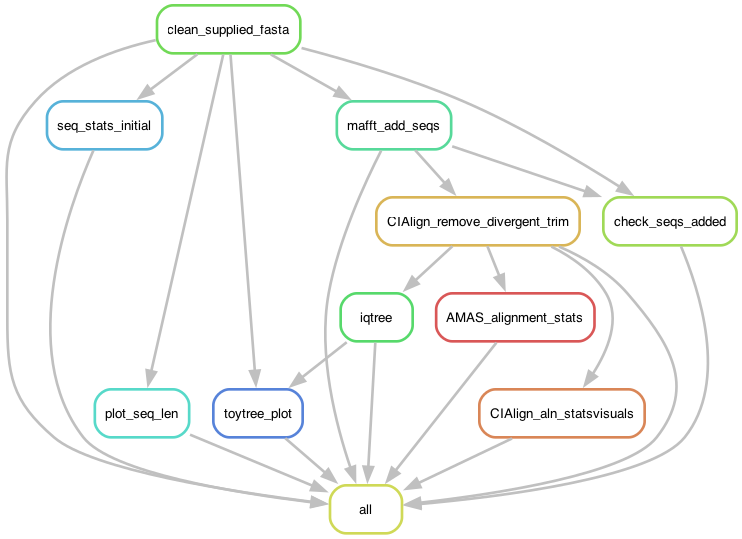
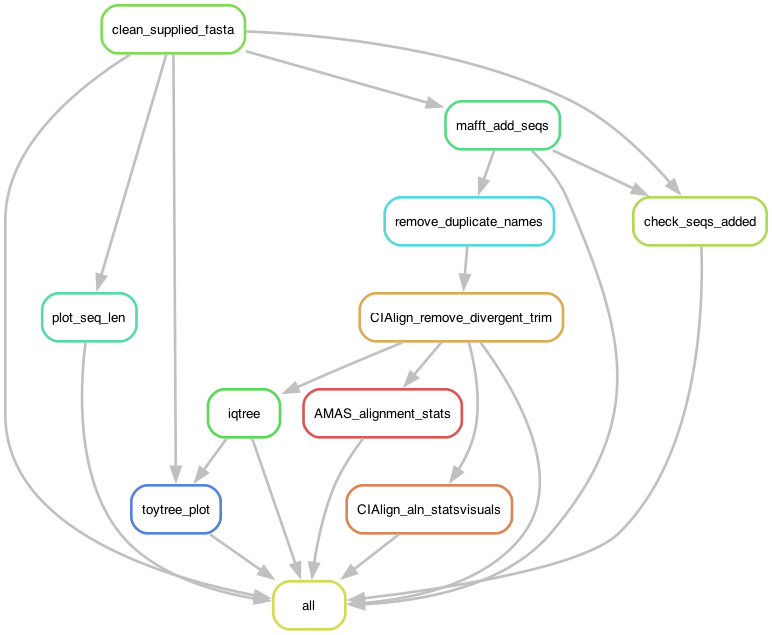
scripts and rules updates

diff --git a/workflow/scripts/toytre.py b/workflow/scripts/toytre.py
@@ -2,59 +2,64 @@ import toytree
 
 # Get input tree files from Snakemake
 newick = snakemake.input.nwk
-# newick = "results/iqtree/alvarez_mafft_cialign_iqtree.treefile"
 newtips_list = snakemake.input.added
-# newtips_list = "results/reporting/validated/alvarez_all_fasta_headers.txt"
 outfile = snakemake.output[0]
-# outfile = "results/reporting/toytree/alvareztest_mafft_cialign_iqtree.html"
 
 # Load the tree and reroot
 with open(newick) as f:
     tree1 = toytree.tree(f.read())
 rtree = tree1.root("~Pratylenchus")
+# Pratylenchus
 
 # Load tip names of newly-added sequences
 with open(newtips_list) as f:
     tips_to_mark = {line.strip() for line in f if line.strip()}
 
-# Mapping of species substrings to colors
-species_colors = {
-    "javanica": "#0675b9",
-    "floridensis": "#f205cb",
-    "arenaria": "#049e28",
-    "incognita": "#f90505",
-    "haplanaria": "#aa11f1",
-    "ethiopica": "#cd6df9",
-    "konaensis": "#e7c2f8",
-    "arabicida": "#c9b2d4",
-    "paranaensis": "#a78fb3",
-    "hispanica": "#bd8ed2",
-    "luci": "#dbb6ed",
-    "enterolobii": "#f16435",
-    "hapla": "#c85490",
-    "partityla": "#d6557c",
-    "microtyla": "#f2a6b0",
-    "spartelensis": "#f2c6d4",
-    "dunensis": "#f2729a",
-    "duytsi": "#f6477e",
-    "graminicola": "#7bbbe3",
-    "oryzae": "#83cdfa",
-    "kralli": "#a6cde5",
-    "naasi": "#70a7c9",
-    "minor": "#1181c7",
-    "chitwoodi": "#5384a3",
-    "fallax": "#5ea9d7",
-}
+# Create a color list for tip labels
+tip_colors = [
+    "red" if name in tips_to_mark else "black" for name in rtree.get_tip_labels()
+]
 
-# Function to get color based on species name
-def get_color(tip):
-    return next(
-        (color for species, color in species_colors.items() if species in tip), 
-        "#33373a",
-        )
+# ------- color scheme for species ---------
+# # Mapping of species substrings to colors
+# species_colors = {
+#     "javanica": "#0675b9",
+    # "floridensis": "#f205cb",
+#     "arenaria": "#049e28",
+    # "incognita": "#f90505",
+#     "haplanaria": "#aa11f1",
+#     "ethiopica": "#cd6df9",
+#     "konaensis": "#e7c2f8",
+#     "arabicida": "#c9b2d4",
+#     "paranaensis": "#a78fb3",
+#     "hispanica": "#bd8ed2",
+#     "luci": "#dbb6ed",
+#     "enterolobii": "#f16435",
+#     "hapla": "#c85490",
+#     "partityla": "#d6557c",
+#     "microtyla": "#f2a6b0",
+#     "spartelensis": "#f2c6d4",
+#     "dunensis": "#f2729a",
+#     "duytsi": "#f6477e",
+#     "graminicola": "#7bbbe3",
+#     "oryzae": "#83cdfa",
+#     "kralli": "#a6cde5",
+#     "naasi": "#70a7c9",
+#     "minor": "#1181c7",
+#     "chitwoodi": "#5384a3",
+    # "fallax": "#5ea9d7",
+# }
 
-# Generate color list
-colorlist = [get_color(tip) for tip in rtree.get_tip_labels()]
+# # Function to get color based on species name
+# def get_color(tip):
+#     return next(
+#         (color for species, color in species_colors.items() if species in tip),
+#         "#33373a",
+#         )
+
+# # Generate color list
+# colorlist = [get_color(tip) for tip in rtree.get_tip_labels()]
+#  -------------------------------------------------------
 
 # Draw tree and get axes
 canvas, axes, mark1 = rtree.draw(
@@ -62,11 +67,11 @@ canvas, axes, mark1 = rtree.draw(
     height=1600,
     # node_hover=True,
     node_sizes=3,
-    tip_labels_colors=colorlist,
+    tip_labels_colors=tip_colors,  # colorlist,
 )
 
 # call annotate method w/ 'axes' as an arg
-mark2 = rtree.annotate.add_tip_markers(axes=axes, size=6, color="red", marker="o");
+mark2 = rtree.annotate.add_tip_markers(axes=axes, size=6, color="#52373A", marker="o")
 
 # add markers to the right of each leaf node colored by 'dist' feature
 # mark3 = rtree.annotate.add_tip_markers(axes, marker="s", size=6, color=("dist",), xshift=5)

diff --git a/workflow/scripts/toytreref.py b/workflow/scripts/toytreref.py
@@ -1,0 +1,68 @@
+import toytree
+
+# Get input tree files from Snakemake
+newick = snakemake.input.nwk
+# newick = "results/iqtree/alvarez_mafft_cialign_iqtree.treefile"
+outfile = snakemake.output[0]
+# outfile = "results/reporting/toytree/alvareztest_mafft_cialign_iqtree.html"
+
+# Load the tree and reroot
+with open(newick) as f:
+    tree1 = toytree.tree(f.read())
+rtree = tree1.root("~_OG")
+
+# Mapping of species substrings to colors
+species_colors = {
+    "javanica": "#0675b9",
+    "floridensis": "#f205cb",
+    "arenaria": "#049e28",
+    "incognita": "#f90505",
+    "haplanaria": "#aa11f1",
+    "ethiopica": "#cd6df9",
+    "konaensis": "#e7c2f8",
+    "arabicida": "#c9b2d4",
+    "paranaensis": "#a78fb3",
+    "hispanica": "#bd8ed2",
+    "luci": "#dbb6ed",
+    "enterolobii": "#f16435",
+    "hapla": "#c85490",
+    "partityla": "#d6557c",
+    "microtyla": "#f2a6b0",
+    "spartelensis": "#c67891",
+    "dunensis": "#d46286",
+    "duytsi": "#f6477e",
+    "graminicola": "#7bbbe3",
+    "oryzae": "#83cdfa",
+    "kralli": "#a6cde5",
+    "naasi": "#70a7c9",
+    "minor": "#1181c7",
+    "chitwoodi": "#5384a3",
+    "fallax": "#5ea9d7",
+}
+
+
+# Function to get color based on species name
+def get_color(tip):
+    return next(
+        (color for species, color in species_colors.items() if species in tip),
+        "#33373a",
+    )
+
+
+# Generate color list
+colorlist = [get_color(tip) for tip in rtree.get_tip_labels()]
+
+# Draw tree and get axes
+canvas, axes, mark1 = rtree.draw(
+    width=800,
+    height=1600,
+    # node_hover=True,
+    node_sizes=3,
+    tip_labels_colors=colorlist,
+)
+
+# call annotate method w/ 'axes' as an arg
+mark2 = rtree.annotate.add_tip_markers(axes=axes, size=6, color="#52373A", marker="o")
+
+# Save to HTML
+toytree.save(canvas, outfile)

diff --git a/workflow/scripts/clean_ARB.py b/workflow/scripts/clean_ARB.py
@@ -1,0 +1,34 @@
+# script to clean ARN fasta headers to remove taxonomy and other parts.
+
+from Bio import SeqIO
+from Bio.Seq import Seq
+from Bio.SeqRecord import SeqRecord
+import re
+
+# Define input and output file paths
+input_file = "resources/test/arb-silva.fasta"
+output_file = "resources/test/arb-silva_clean_dash3.fasta"
+
+# Function to clean and format the header
+def clean_description(description):
+    cleaned = re.sub(r'Eukaryota.*?Tylenchida;', '', description)
+    cleaned = cleaned.replace(' ', '_')
+    return cleaned
+
+# Process the FASTA file
+with open(input_file, "r") as infile, open(output_file, "w") as outfile:
+    for record in SeqIO.parse(infile, "fasta"):
+        # Clean the description
+        new_description = clean_description(record.description)
+        # Replace dots with dashes in the sequence
+        cleaned_seq_str = str(record.seq).replace('.', '-')
+        cleaned_seq = Seq(cleaned_seq_str)
+        # Create a new SeqRecord with only the cleaned description
+        new_record = SeqRecord(
+            cleaned_seq,
+            id="",  # Empty ID so only description is used
+            description=new_description
+        )
+        SeqIO.write(new_record, outfile, "fasta")
+
+print(f"Cleaned FASTA records written to '{output_file}'")

diff --git a/workflow/README.md b/workflow/README.md
@@ -35,5 +35,18 @@ If all is well, run the workflow with:
 
 `snakemake --cores 4`
 
+### common reasons for failure
 
+#### wrong reference alignment name, or sample name
 
+check this in config. fasta/fas, capitalisation, location
+
+#### IQ-tree times out
+
+It can take quite a while to construct the tree. Maybe a coupole of minutes, depending on data set and computer, and sankemake may time out after 30 seconds waiting for IQtree to write its files. Try
+snakemake --cores 3 --latency-wait 300
+this will ask snakemake to wait 300 seconds instead
+
+#### wrong outgroups
+
+toytree will complain and fgail if your outgroup taxon is not in your dataset
